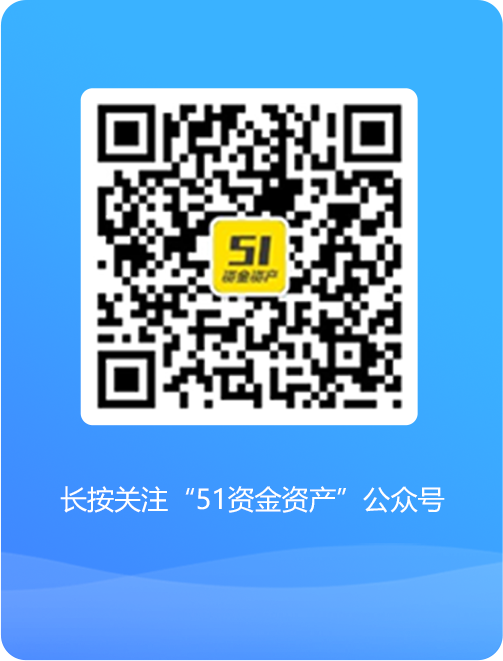
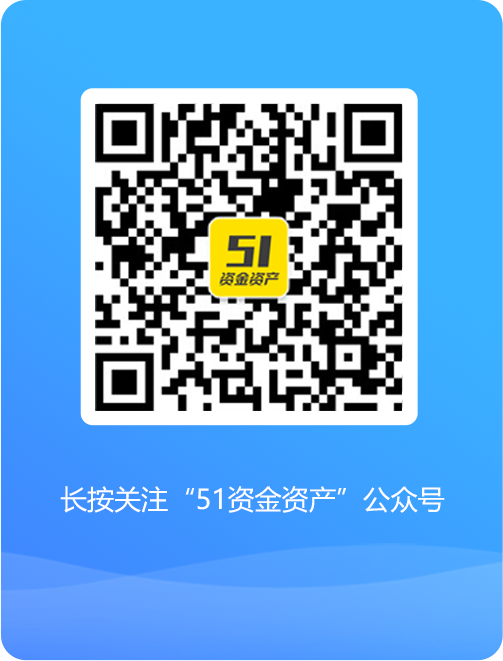
修改高度和二维码图片

Changed region(s): [[0.1789, 0.1513, 0.8052, 0.6354]]

diff --git a/src/views/Home/Home.vue b/src/views/Home/Home.vue
@@ -376,7 +376,7 @@ export default {
       img:nth-of-type(1){
         width:15.68rem;
         height:20.63rem;
-        margin:8rem auto 3rem auto;
+        margin:5.5rem auto 3rem auto;
       }
       img:nth-of-type(2){
         width:3.32rem;
